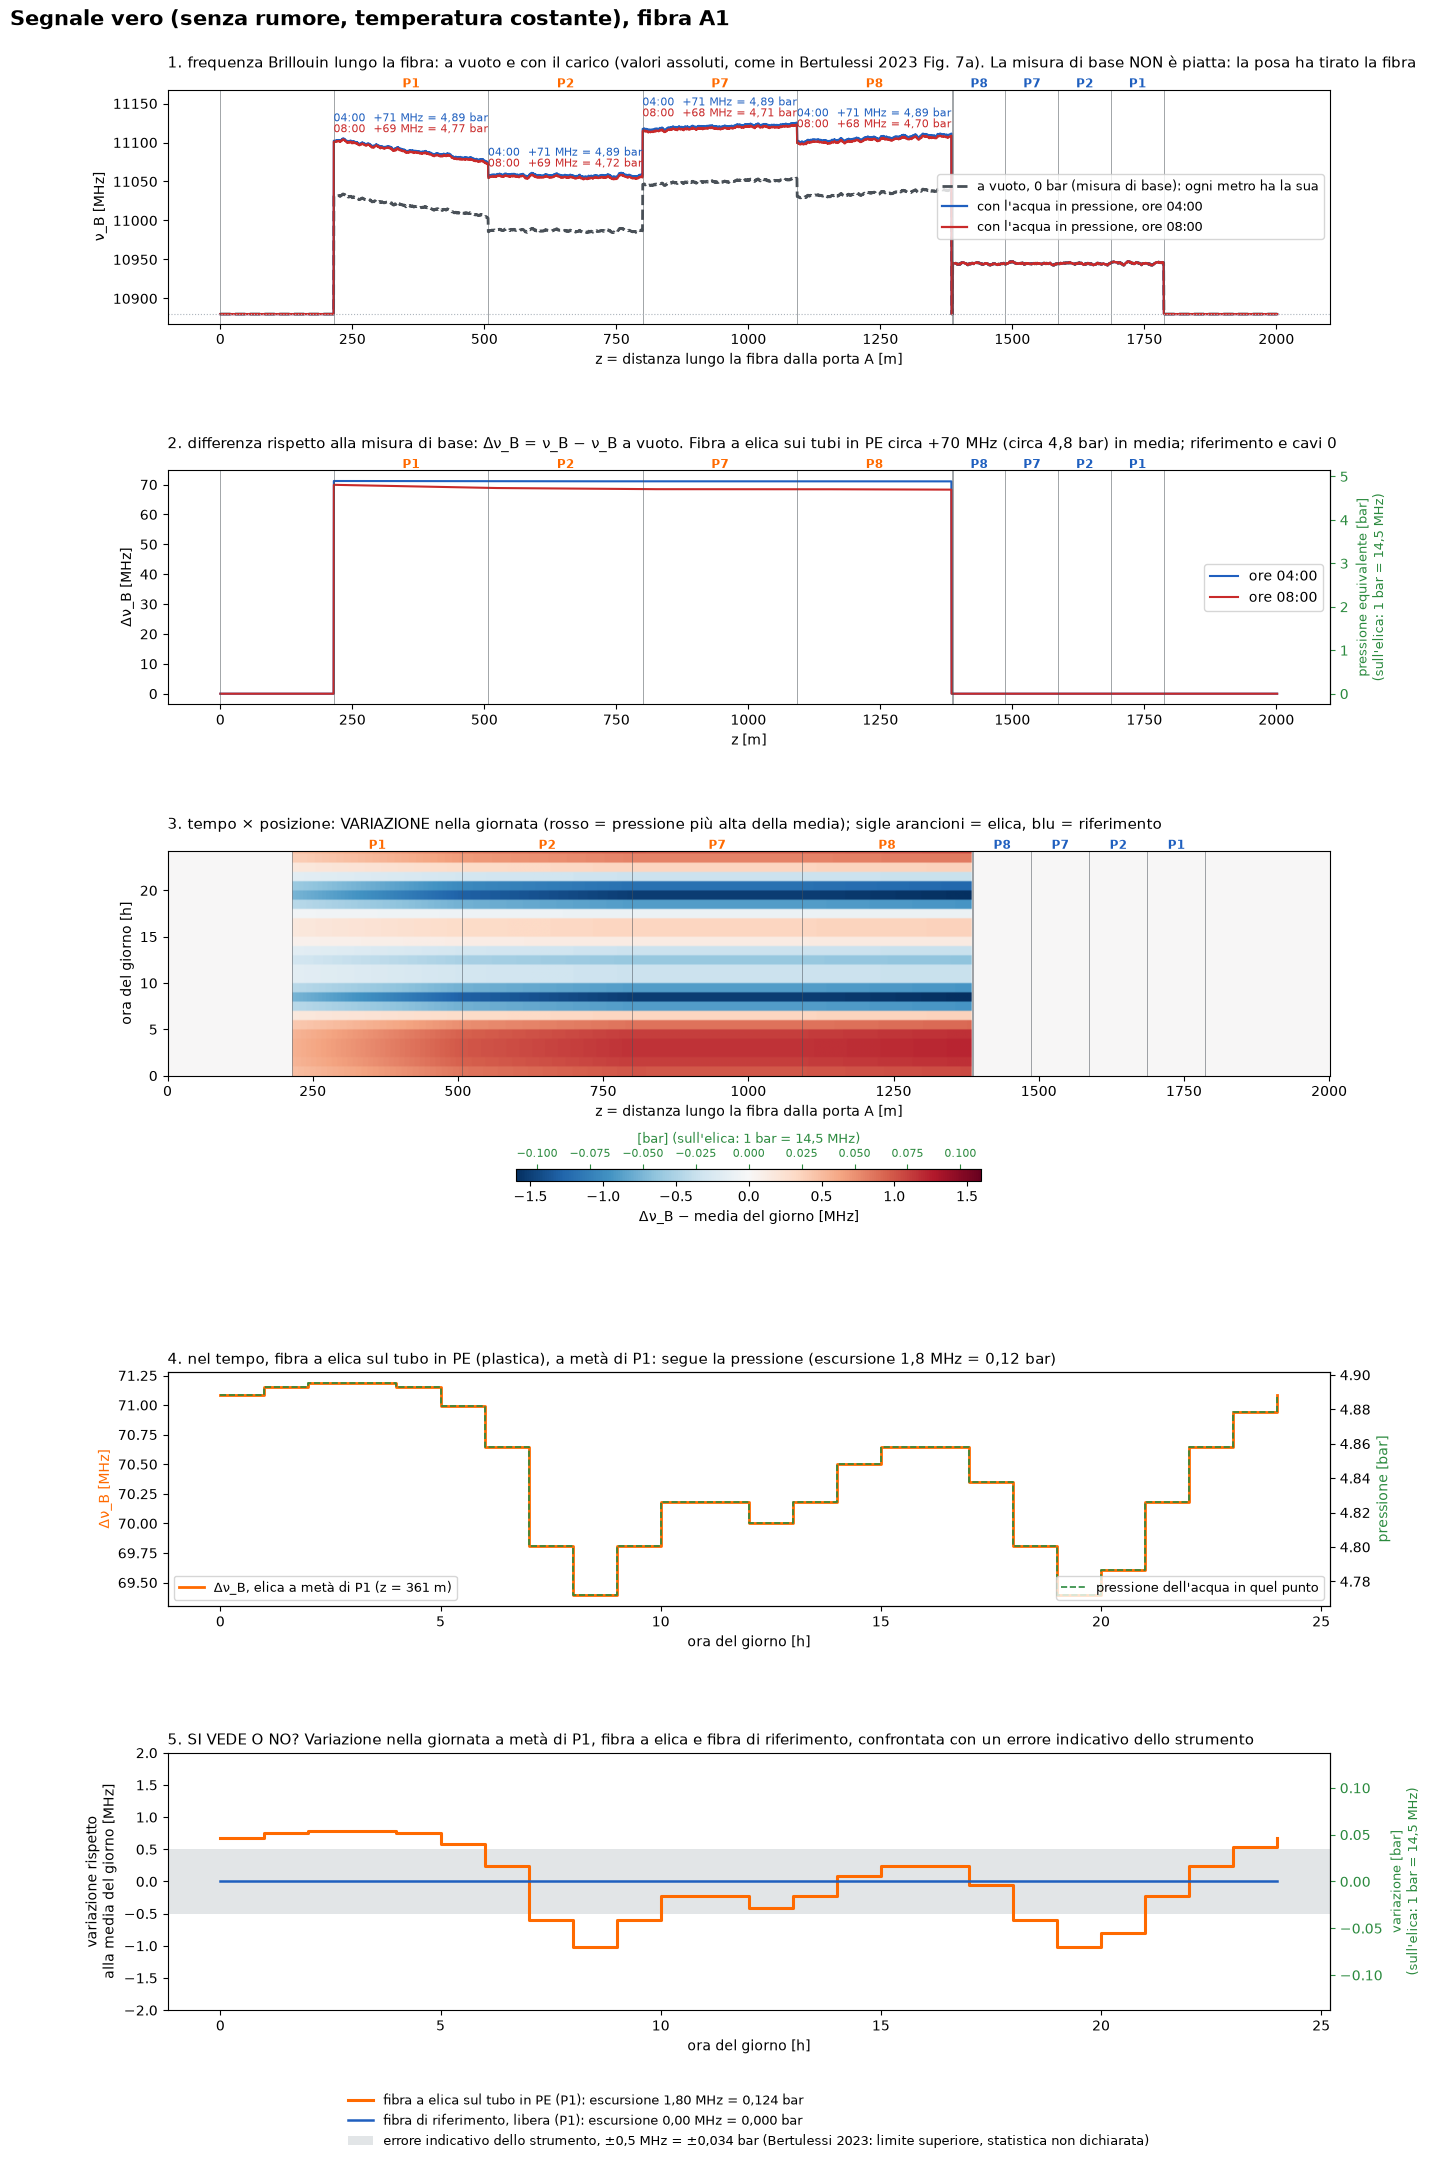
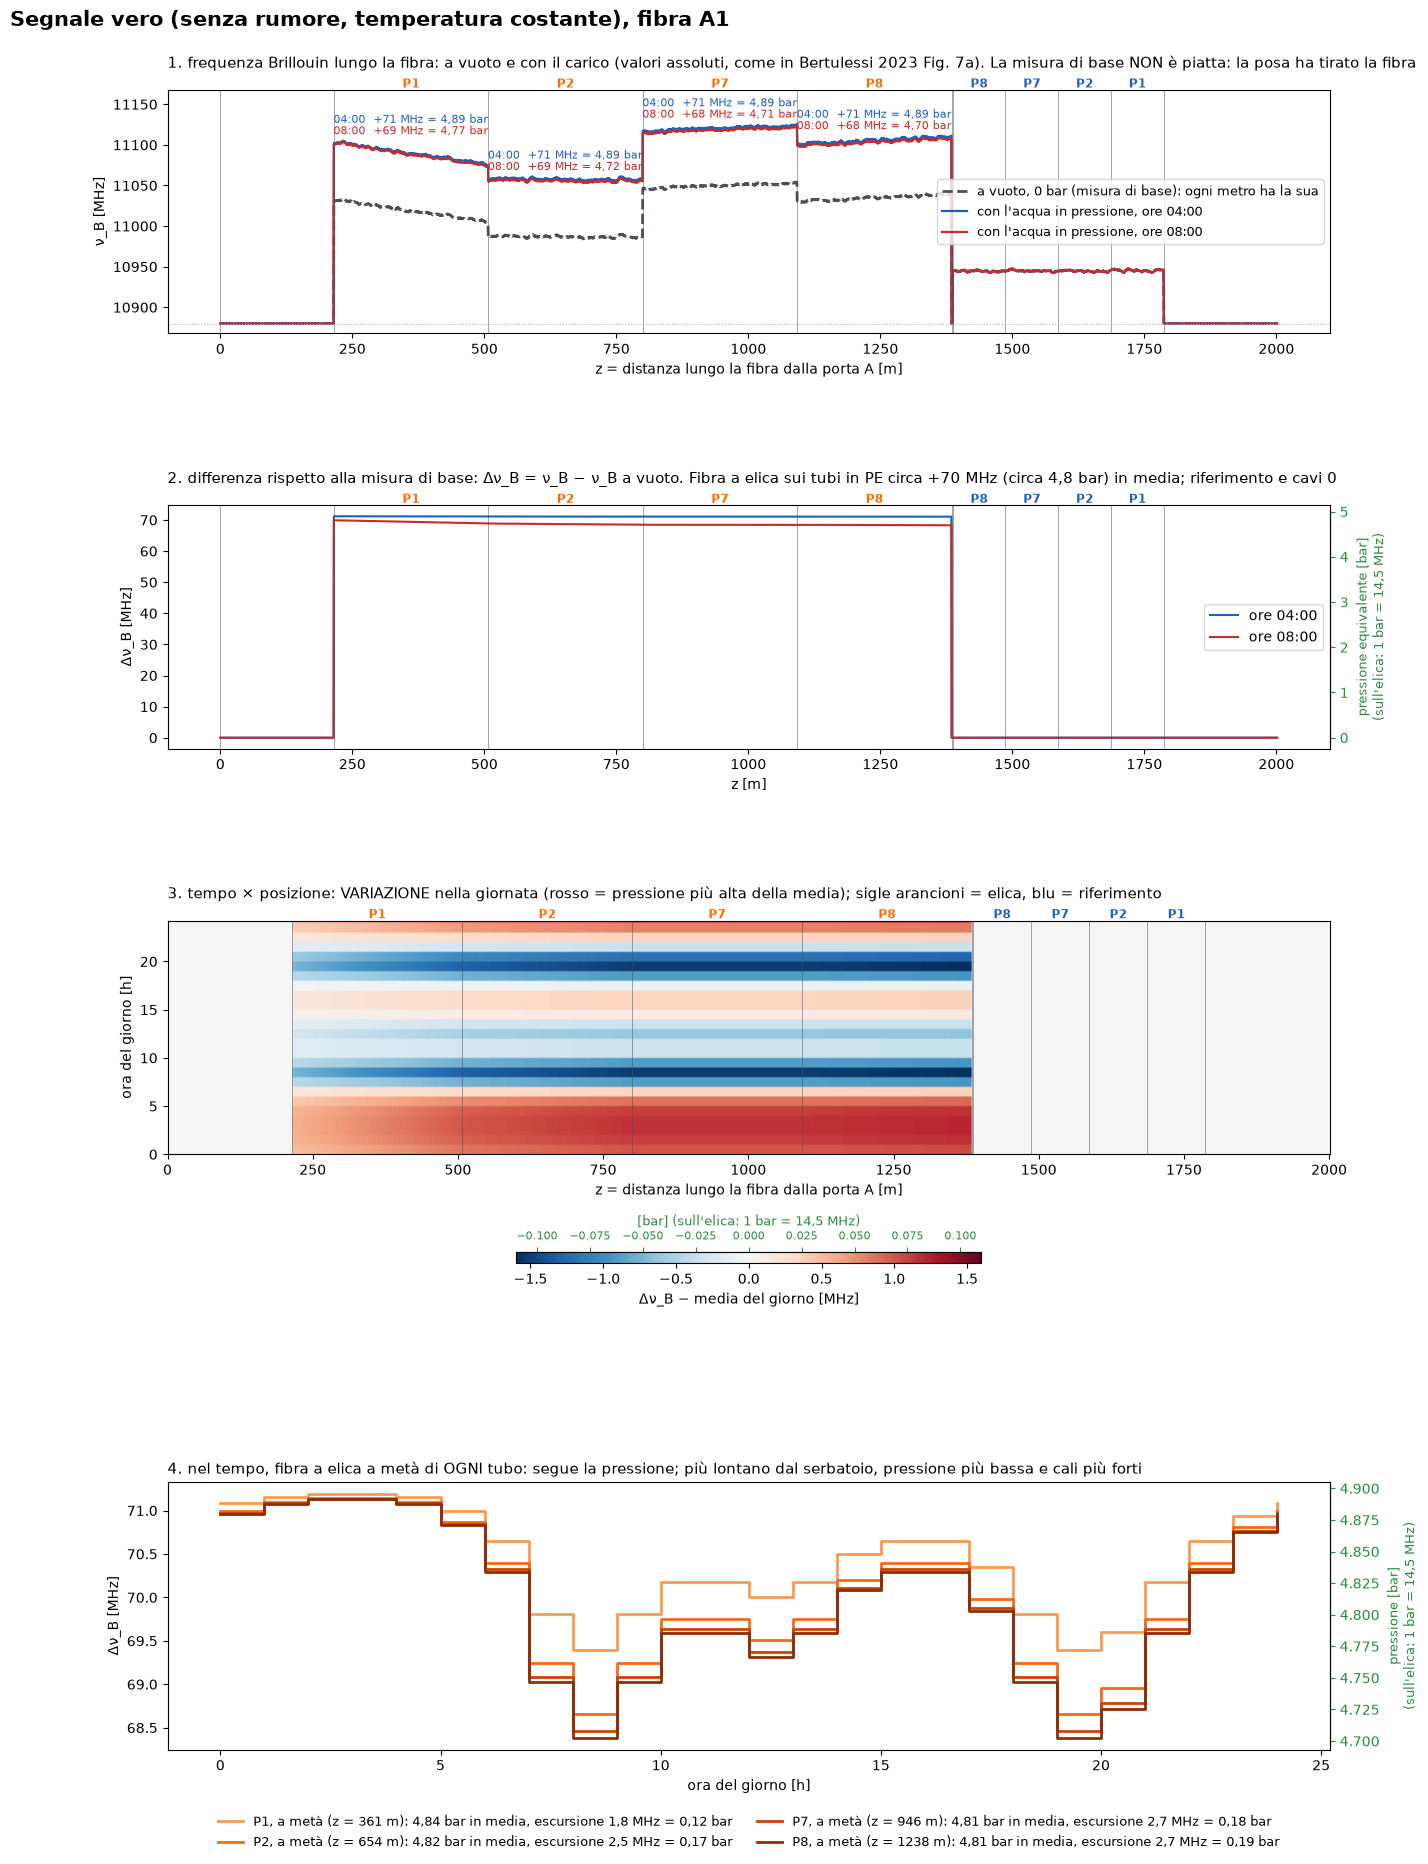
Signal figure: all pipes over time, drop the "visible or not" panel
- Panel 4 now shows the helix reading at the middle of every covered
  pipe (P1, P2, P7, P8), darker orange farther from the reservoir,
  with pressure in bar on the right and mean pressure and daily
  excursion per pipe in the legend.
- The "visible or not" panel against an indicative error band is
  removed: the figure has 4 panels. README and session dump updated.

diff --git a/src/waterfibersim/plot.py b/src/waterfibersim/plot.py
@@ -75,8 +75,8 @@ def plot_true_signal(sig, path: str | Path, fiber_id: str | None = None) -> Path
     h = sig.times_s / 3600
     z = f["z_m"].to_numpy()
 
-    fig = plt.figure(figsize=(15, 23), dpi=100)
-    gs = fig.add_gridspec(5, 1, height_ratios=[1, 1, 1.6, 1, 1.1], hspace=0.55, top=0.945)
+    fig = plt.figure(figsize=(15, 20), dpi=100)
+    gs = fig.add_gridspec(4, 1, height_ratios=[1, 1, 1.6, 1.1], hspace=0.6, top=0.94)
     consumi = "" if sig.demand_multiplier == 1 else f", consumi \u00d7{sig.demand_multiplier:g}"
     fig.suptitle(f"Segnale vero (senza rumore, temperatura costante), fibra {fid}{consumi}", fontsize=15,
                  fontweight="bold", x=0.02, ha="left")
@@ -168,45 +168,25 @@ def plot_true_signal(sig, path: str | Path, fiber_id: str | None = None) -> Path
         m = np.flatnonzero((f["pipe"] == pid).to_numpy() & (f["leg"] == leg).to_numpy())
         return m[int(np.argmin(abs(f["s_pipe_m"].to_numpy()[m] - sig_mid(f, pid))))] if len(m) else None
 
-    # 4. fibra a elica sul tubo in PE nel tempo + pressione
+    # tubi coperti dall'elica, nell'ordine in cui li percorre la fibra; arancione via via più scuro
+    tubi = list(pd.unique(f.loc[sens, "pipe"]))
+    colori = plt.get_cmap("Oranges")(np.linspace(0.45, 0.95, len(tubi)))
+    punti = {pid: punto(pid, "sensing") for pid in tubi}
+
+    # 4. tutti i tubi nel tempo: Δν_B a metà di ciascun tubo (a destra la pressione in bar)
     ax = fig.add_subplot(gs[3])
-    j = punto("P1", "sensing")
-    ax.step(h, dnu[:, j], where="post", color="#ff6a00", lw=2, label=f"\u0394\u03bd_B, elica a metà di P1 (z = {z[j]:.0f} m)")
-    ax.set_ylabel("\u0394\u03bd_B [MHz]", color="#ff6a00")
-    ax2 = ax.twinx()
-    ax2.step(h, press[:, j], where="post", color="#2b8a3e", lw=1.2, ls="--", label="pressione dell'acqua in quel punto")
-    ax2.set_ylabel("pressione [bar]", color="#2b8a3e")
-    ax.legend(loc="lower left", fontsize=9)
-    ax2.legend(loc="lower right", fontsize=9)
+    for pid, c in zip(tubi, colori):
+        j = punti[pid]
+        esc = f"{np.ptp(dnu[:, j]):.1f} MHz = {np.ptp(press[:, j]):.2f} bar".replace(".", ",")
+        ax.step(h, dnu[:, j], where="post", color=c, lw=2,
+                label=f"{pid}, a metà (z = {z[j]:.0f} m): {np.nanmean(press[:, j]):.2f} bar in media, "
+                      f"escursione {esc}".replace(".", ",", 1))
+    ax.set_ylabel("\u0394\u03bd_B [MHz]")
+    asse_bar(ax, nome="pressione")
     ax.set_xlabel("ora del giorno [h]")
-    escursione = f"{np.ptp(dnu[:, j]):.1f} MHz = {np.ptp(press[:, j]):.2f} bar".replace(".", ",")
-    ax.set_title(f"4. nel tempo, fibra a elica sul tubo in PE (plastica), a metà di P1: segue la pressione (escursione {escursione})", fontsize=11, loc="left")
-
-    # 5. si vede o no? variazione nella giornata in tre punti contro l'errore tipico dello strumento
-    ax = fig.add_subplot(gs[4])
-    ERRORE_MHZ = 0.5          # indicativo: Bertulessi 2023 §2.1, "better than ... 10 µε" (limite superiore,
-                              # statistica non dichiarata). Al passo 3 diventa un parametro (Soto & Thévenaz 2013).
-
-    j = punto("P1", "sensing")
-    for pid, leg, c, lab in (("P1", "sensing", "#ff6a00", "fibra a elica sul tubo in PE (P1)"),
-                             ("P1", "reference", "#1f5fbf", "fibra di riferimento, libera (P1)")):
-        jj = punto(pid, leg)
-        if jj is not None:
-            serie = dnu[:, jj] - dnu[:, jj].mean()
-            esc = f"{np.ptp(serie):.2f} MHz = {np.ptp(serie) / mhz_per_bar:.3f} bar".replace(".", ",")
-            ax.step(h, serie, where="post", color=c, lw=2.2 if leg == "sensing" else 1.8,
-                    label=f"{lab}: escursione {esc}")
-    ax.axhspan(-ERRORE_MHZ, ERRORE_MHZ, color="#adb5bd", alpha=0.35, lw=0, zorder=0,
-               label=f"errore indicativo dello strumento, ±0,5 MHz = ±{ERRORE_MHZ / mhz_per_bar:.3f} bar "
-                     f"(Bertulessi 2023: limite superiore, statistica non dichiarata)".replace("0.", "0,"))
-    lim = max(2.0, 1.15 * np.abs(dnu[:, j] - dnu[:, j].mean()).max())
-    ax.set_ylim(-lim, lim)
-    asse_bar(ax, nome="variazione")
-    ax.set_ylabel("variazione rispetto\nalla media del giorno [MHz]")
-    ax.set_xlabel("ora del giorno [h]")
-    ax.legend(loc="upper center", bbox_to_anchor=(0.5, -0.28), fontsize=9, ncol=1, frameon=False)
-    ax.set_title("5. SI VEDE O NO? Variazione nella giornata a metà di P1, fibra a elica e fibra di riferimento, "
-                 "confrontata con un errore indicativo dello strumento", fontsize=11, loc="left")
+    ax.legend(loc="upper center", bbox_to_anchor=(0.5, -0.2), fontsize=9, ncol=2, frameon=False)
+    ax.set_title("4. nel tempo, fibra a elica a metà di OGNI tubo: segue la pressione; più lontano dal serbatoio, "
+                 "pressione più bassa e cali più forti", fontsize=11, loc="left")
 
     path = Path(path)
     fig.savefig(path, bbox_inches="tight", facecolor="white")

diff --git a/docs/sessione-2026-11-23.md b/docs/sessione-2026-11-23.md
@@ -425,7 +425,7 @@ Tre casi per il simulatore: tubo nuovo in composito / relining su ospite flessib
 
 - **`--demand-multiplier`**: moltiplica i consumi (EPANET *Demand Multiplier*). Con ×1 la rete di prova è poco carica (variazione giornaliera 0,1–0,2 bar, velocità massima 0,77 m/s); con ×3 la variazione è 0,7–1,5 bar. Per valutare il sensore servono consumi realistici o una rete reale (da decidere).
 - **Profilo a riposo** (`rest_profile.py`, `--seed`, `--no-rest-profile`): elica, per ogni tubo, da inizio a fine con valori a caso in [105, 180] MHz; tratto libero +65 MHz; cavi 0; ondulazioni di circa 1 MHz. Valori da [B23] Fig. 7a, forma per tubo = ipotesi. Etichette `rest_mhz`, `baseline_mhz` in `signal_true.npz`.
-- **Figura `signal_true_<fibra>.png`** in 5 pannelli: 1 frequenza assoluta a vuoto e con carico (con le annotazioni in bar per tubo), 2 differenza dalla misura di base, 3 mappa tempo × posizione, 4 andamento nel tempo con la pressione, 5 "si vede o no?" contro un errore indicativo. **Asse destro in bar su tutti i pannelli in MHz** (preferenza dell'utente); nel pannello 1 annotazioni per tubo, perché lì la base cambia metro per metro.
+- **Figura `signal_true_<fibra>.png`** in 4 pannelli: 1 frequenza assoluta a vuoto e con carico (con le annotazioni in bar per tubo), 2 differenza dalla misura di base, 3 mappa tempo × posizione, 4 andamento nel tempo a metà di **ogni** tubo coperto dall'elica. Il pannello "si vede o no?" è stato tolto su richiesta dell'utente (non diceva niente di utile). **Asse destro in bar su tutti i pannelli in MHz** (preferenza dell'utente); nel pannello 1 annotazioni per tubo, perché lì la base cambia metro per metro.
 - **Due calibrazioni** (chiarito con l'utente): la misura di base toglie la nota a riposo; il rapporto MHz → bar va calibrato a parte. Oggi il simulatore è ideale su entrambe; incertezze di misura volutamente escluse per ora.
 - **Idee** per i passi 3–4: la notte (consumi minimi, pressione vicina alla statica) come momento in cui una perdita si vede meglio, e come possibile riferimento per verificare il rapporto MHz → bar in opera. Da verificare in letteratura (minimo flusso notturno).
 

diff --git a/README.md b/README.md
@@ -203,7 +203,7 @@ Cosa si vede, nello scenario A:
 - Sulla **fibra a elica dei tubi in PE (plastica)** la frequenza sta circa 70 MHz sopra il tubo vuoto (circa 4,8 bar) e varia di 2–3 MHz nella giornata, seguendo i consumi: circa 14,5 MHz per bar sul PE DN110.
 - Sul **tratto di riferimento** e su cavi e giunzione resta a 0.
 - **P0, l'adduttrice in ghisa, non ha l'elica**: la fibra ci passa solo come cavo. Su un tubo così rigido la fibra a elica sentirebbe circa 0,2 MHz per bar, sotto un errore indicativo dello strumento (circa 0,5 MHz, vedi sotto): non avrebbe senso. È lo stesso problema di una guaina appoggiata a un tubo ospite rigido.
-- La variazione nella giornata (circa ±0,9 MHz) è **al limite** di un errore indicativo di ±0,5 MHz per una singola misura in un singolo punto: per vederla bene servirà la media nello spazio e nel tempo (pannello 4).
+- La variazione nella giornata (circa ±0,9 MHz) è **al limite** di un errore indicativo di ±0,5 MHz per una singola misura in un singolo punto: per vederla bene servirà la media nello spazio e nel tempo.
 
 ### Cosa il simulatore non fa ancora
 
